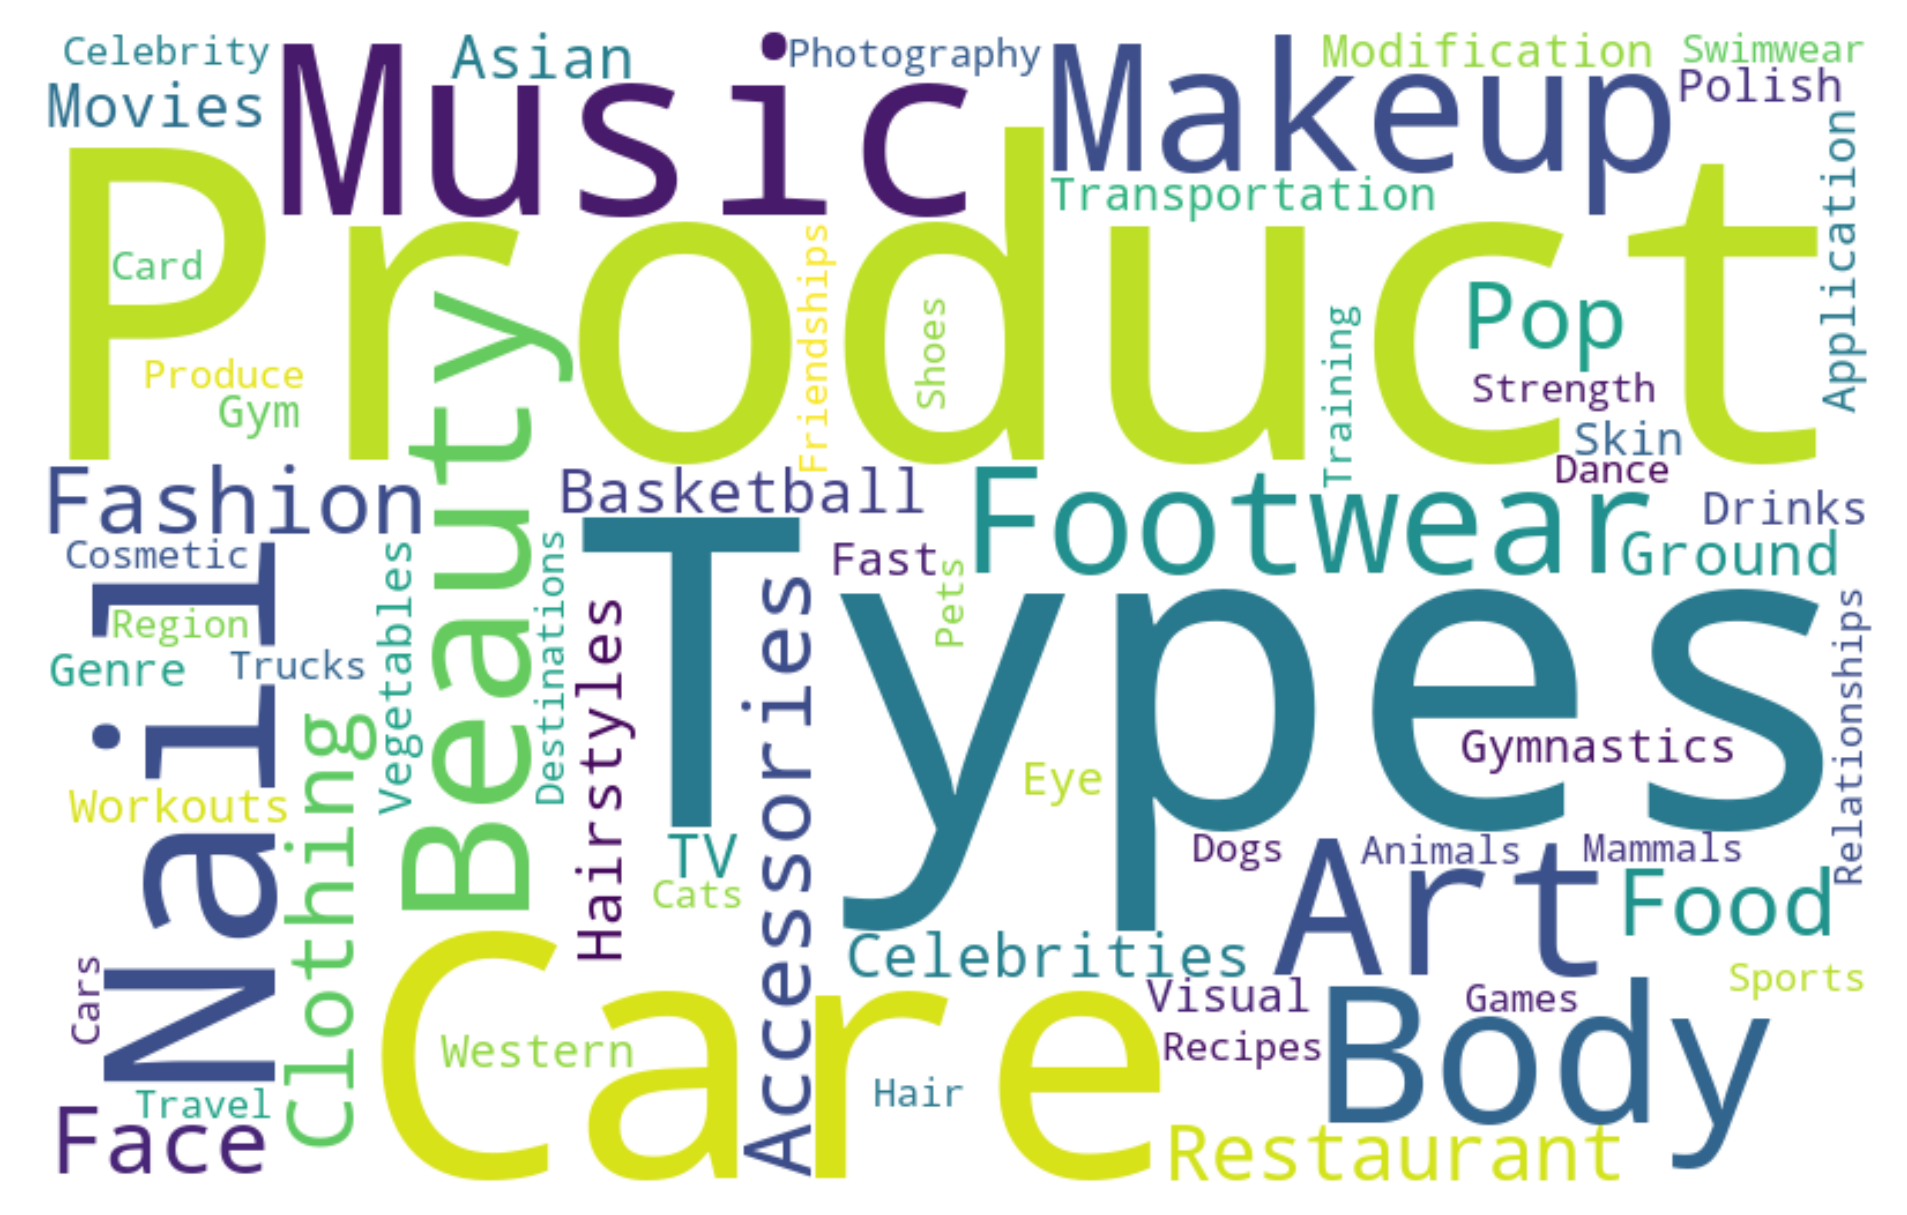
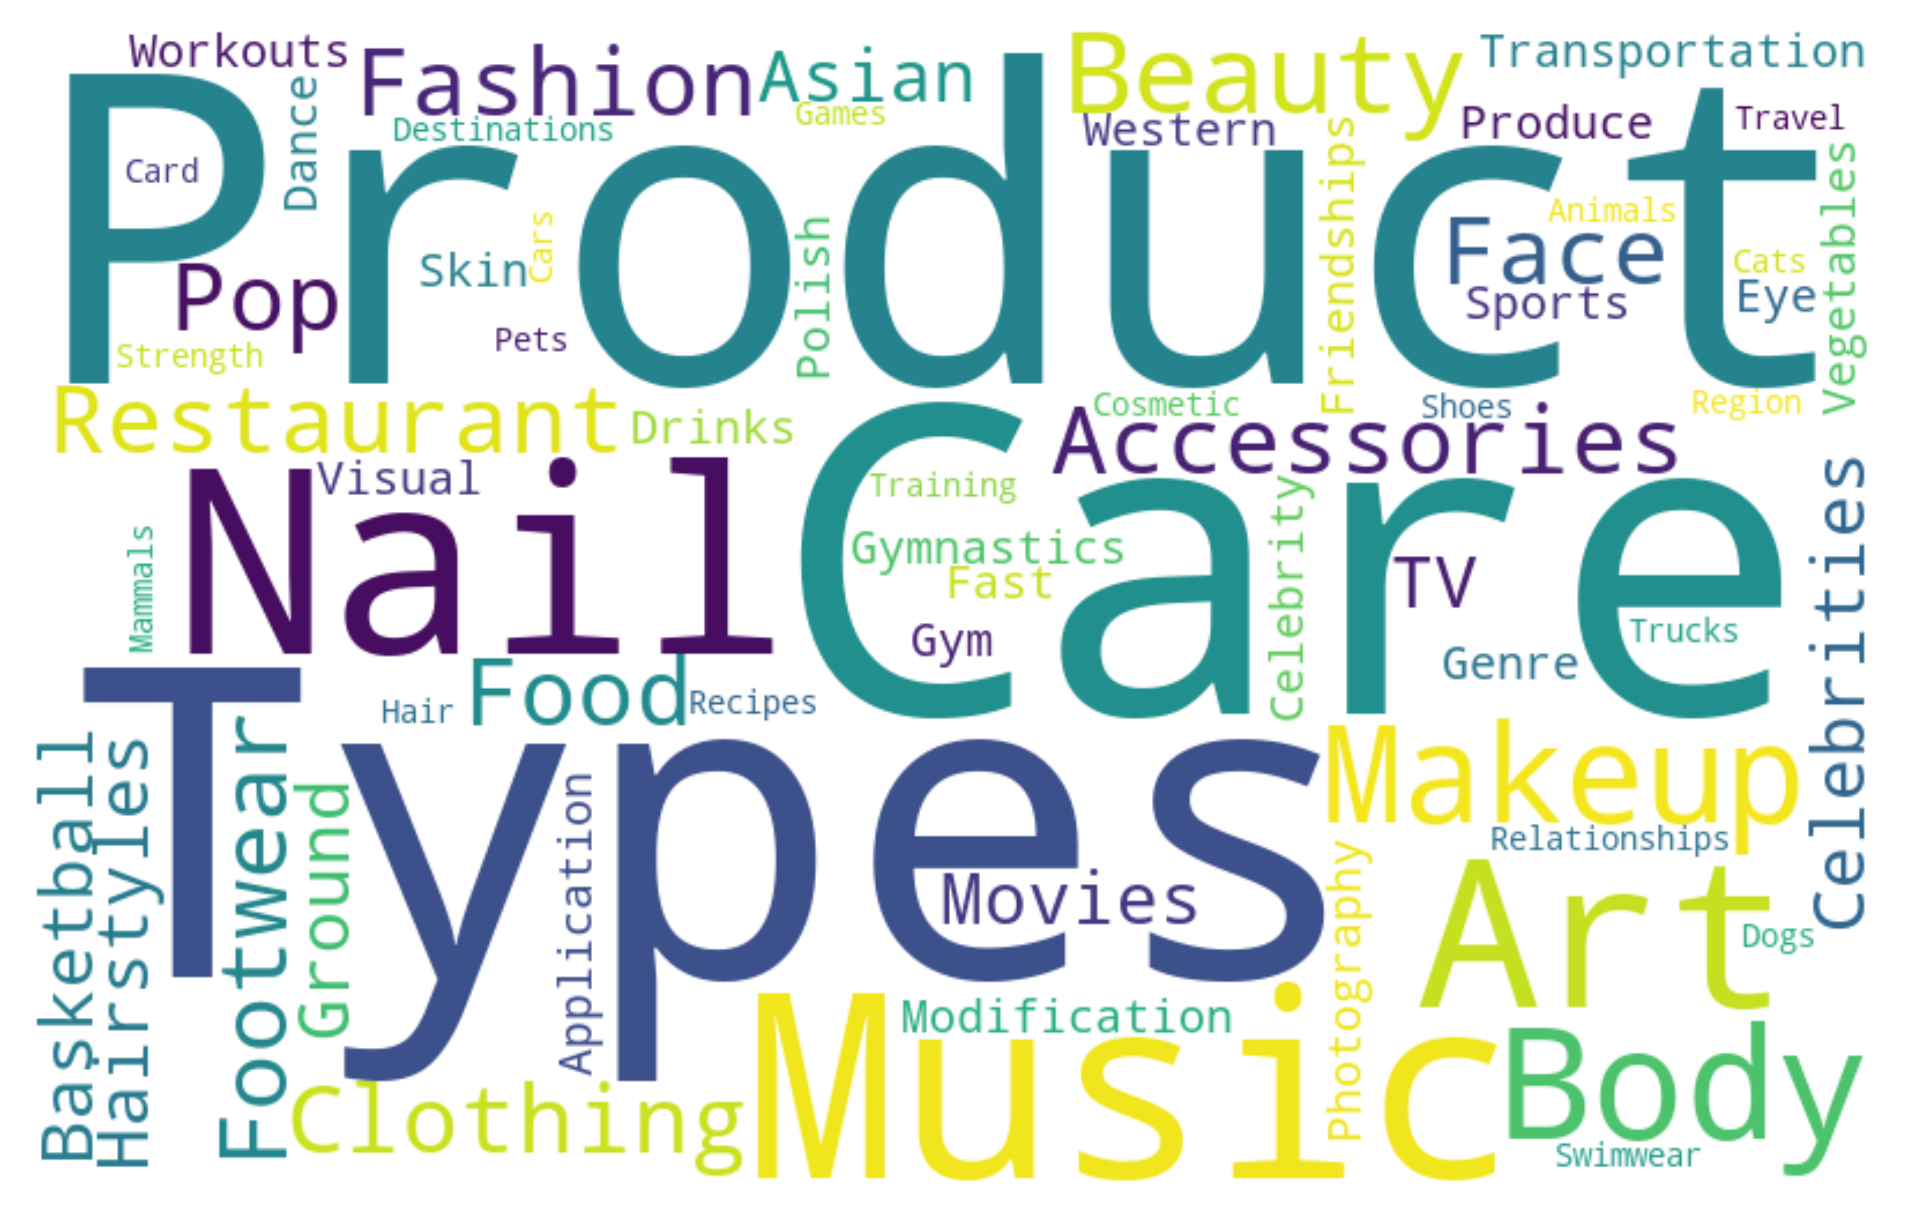
fixes with luca's changes

diff --git a/ui/project_ui.py b/ui/project_ui.py
@@ -3,16 +3,18 @@ from tkinter import filedialog, messagebox
 import subprocess
 import sys
 from PIL import Image, ImageTk
+import os
 
 class InstagramArchiveApp:
     def __init__(self, root):
         self.root = root
         self.root.title("Visualize Your Instagram Archive!")
-        self.root.geometry("1000x750")
+        self.root.geometry("1000x850")
         self.root.configure(bg="#2e2e2e")
 
-        self.center_window(1000, 750)
+        self.center_window(1000, 850)
         self.folder_selected = None
+        self.json_files = {}
 
         # Create an initial white window to display the image
         self.image_frame = tk.Frame(self.root, width=800, height=500, bg="white")
@@ -42,11 +44,55 @@ class InstagramArchiveApp:
         if self.folder_selected:
             self.label.config(text=f"Selected Folder: {self.folder_selected}")
 
+            # Check for required JSON files
+            file_status = []
+
+            # Look for liked_posts.json
+            liked_posts_path = os.path.join(self.folder_selected, "liked_posts.json")
+            if os.path.exists(liked_posts_path):
+                self.json_files['liked_posts'] = liked_posts_path
+                file_status.append("✅ liked_posts.json found")
+            else:
+                self.json_files['liked_posts'] = None
+                file_status.append("❌ liked_posts.json not found")
+
+            # Look for post_comments_1.json
+            post_comments_path = os.path.join(self.folder_selected, "post_comments_1.json")
+            if os.path.exists(post_comments_path):
+                self.json_files['post_comments'] = post_comments_path
+                file_status.append("✅ post_comments_1.json found")
+            else:
+                self.json_files['post_comments'] = None
+                file_status.append("❌ post_comments_1.json not found")
+
+            # Look for recommended_topics.json
+            recommended_topics_path = os.path.join(self.folder_selected, "recommended_topics.json")
+            if os.path.exists(recommended_topics_path):
+                self.json_files['recommended_topics'] = recommended_topics_path
+                file_status.append("✅ recommended_topics.json found")
+            else:
+                self.json_files['recommended_topics'] = None
+                file_status.append("❌ recommended_topics.json not found")
+
+            # Look for story_likes.json
+            story_likes_path = os.path.join(self.folder_selected, "story_likes.json")
+            if os.path.exists(story_likes_path):
+                self.json_files['story_likes'] = story_likes_path
+                file_status.append("✅ story_likes.json found")
+            else:
+                self.json_files['story_likes'] = None
+                file_status.append("❌ story_likes.json not found")
+
+            # Update the label with folder path and file statuses
+            status_text = f"Selected Folder: {self.folder_selected}\n" + "\n".join(file_status)
+            self.label.config(text=status_text)
+
     def create_script_buttons(self):
         script_names = {
             "Run Story Likes": "../to_refactor/story_likes_visualizations.py",
             "Run Liked Posts": "../to_refactor/liked_posts.py",
             "Run Word Cloud Topics": "../to_refactor/wordcloud_topics.py",
+            "Run Most Commented On Users": "../to_refactor/most_commented.py",
         }
 
         button_frame = tk.Frame(self.root, bg="#2e2e2e")
@@ -66,6 +112,7 @@ class InstagramArchiveApp:
             "../to_refactor/story_likes_visualizations.py": "../images/story_likes_visualization.png",
             "../to_refactor/liked_posts.py": "../images/liked_posts_wordcloud.png",
             "../to_refactor/wordcloud_topics.py": "../images/wordcloud_topics.png",
+            "../to_refactor/post_comments_1.py": "../images/post_comments.png",
         }
 
         try:

diff --git a/to_refactor/most_commented.py b/to_refactor/most_commented.py
@@ -39,10 +39,14 @@ def most_commented_barchart():
     plt.show()
 
     # Save the figure
-    plt.savefig("output/media_owner_wordcloud.png")
-    plt.close()
+    plt.figure(figsize=(12, 8))
+    plt.imshow(wordcloud, interpolation='bilinear')
+    plt.axis("off")
+    plt.title("Accounts You Commented On Most")
+    plt.tight_layout()
 
-    print("Wordcloud saved to output/media_owner_wordcloud.png")
+    plt.savefig("../images/post_comments.png")
+    plt.close()
 
 
 def load_data():
@@ -51,7 +55,7 @@ def load_data():
     """
     # Load JSON file
     global owners, owner_counts
-    with open("data/post_comments_1.json", "r", encoding="utf-8") as file:
+    with open("../test_data/post_comments_1.json", "r", encoding="utf-8") as file:
         data = json.load(file)
 
     # Extract media owners from the data
@@ -70,7 +74,6 @@ def load_data():
     owners = df
     owner_counts.columns = ["Media Owner", "Comment Count"]
     owner_counts = owner_counts[owner_counts["Media Owner"] != "Unknown"]
-    
 
 def main():
     load_data()

diff --git a/to_refactor/liked_posts.py b/to_refactor/liked_posts.py
@@ -47,8 +47,6 @@ def most_liked_wordcloud():
     plt.savefig("../images/liked_posts_wordcloud.png")
     plt.close()
 
-    print("Wordcloud saved to output/liked_posts_wordcloud.png")
-
 
 def load_data():
     """
